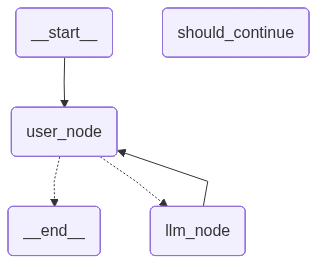
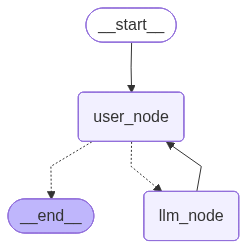
working

diff --git a/src/agent.py b/src/agent.py
@@ -6,6 +6,8 @@ from langchain.messages import AIMessage, AnyMessage, HumanMessage
 from langchain_ollama import ChatOllama
 from langgraph.graph import END, START, StateGraph, add_messages
 from langgraph.checkpoint.sqlite import SqliteSaver
+import argparse
+# Internal dependencies
 import rag
 
 
@@ -13,21 +15,38 @@ import rag
 LLM_MODEL="llama3.2:1b"
 BASE_URL="http://127.0.0.1:11434"
 
-retriever = rag.load_retriever(False)
+reindex=False
 
+parser = argparse.ArgumentParser(description="""
+A simple local RAG project built with Ollama, LangChain, and ChromaDB.  
+It lets you ask questions about a PDF using a fully local LLM setup, with embeddings stored on disk so you don’t have to re-index every time.
+""")
+parser.set_defaults(func=lambda x: parser.print_usage())
+parser.add_argument("-r", "--reindex", action='store_true', help="force reindex of the vectorstore")
+parser.add_argument("-d", "--debug", action='store_true', help="execute in debug mode")
+args = parser.parse_args()
+if not vars(args):
+    parser.print_help()
+    parser.exit(1)
+
+debug=args.debug
+retriever = rag.load_retriever(args.reindex)
 llm = ChatOllama(model=LLM_MODEL, base_url=BASE_URL)
 
-
 class ChatState(TypedDict):
+    """LangGraph state object for Chat workflow"""
     messages: Annotated[list[AnyMessage],add_messages]
+    debug: bool
 
 def llm_node(state:ChatState):
+    """LLM node for the RAG agent workflow. Fetch docs from RAG and uses LLM to generate the response for the user."""
     question = state["messages"][-1].content
     docs = retriever.invoke(question)
     context = "\n\n".join([d.page_content for d in docs])
-    print("\n\n###")
-    print(f"context: {context}")
-    print("###\n\n")
+    if state["debug"]:
+        print("\n\n###")
+        print(f"context: {context}")
+        print("###\n\n")
 
     prompt = f"""
 Answer the question using only the context below.
@@ -40,33 +59,44 @@ Question:
 {question}
 """
     response = llm.invoke(prompt).content
-    print(f"Answer: {response}")
+    print(f"Agent: {response}")
     return {"messages": AIMessage(content=response)}
 
 def should_continue(state:ChatState)->Literal["llm_node","__end__"]:
     if state["messages"][-1] and state["messages"][-1].content.lower() in ["exit", "bye", "quit", "stop"]:
+        print("Agent: Bye!")
         return END
     return "llm_node"
 
 def user_node(state:ChatState):
-    user_message=input("Question: ")
+    user_message=input("You: ")
     return {"messages": HumanMessage(content=user_message.strip())}
 
-graph_builder = StateGraph(ChatState)
 
-graph_builder.add_node(user_node)
-graph_builder.add_node(should_continue)
-graph_builder.add_node(llm_node)
 
-graph_builder.add_edge(START,"user_node")
-graph_builder.add_conditional_edges("user_node", should_continue, {"llm_node", END})
-graph_builder.add_edge("llm_node","user_node")
+def main():
+    graph_builder = StateGraph(ChatState)
 
-# ims = InMemorySaver()
-conn = sqlite3.connect("checkpoints.sqlite")
-checkpoint = SqliteSaver(conn)
-graph = graph_builder.compile(checkpointer=checkpoint)
-with open("agent.png", "wb") as f:
-    f.write(graph.get_graph().draw_mermaid_png())
+    graph_builder.add_node(user_node)
+    graph_builder.add_node(llm_node)
 
-graph.invoke({"messages":""},config={"configurable":{"thread_id":"thread-1"}})
+    graph_builder.add_edge(START,"user_node")
+    graph_builder.add_conditional_edges("user_node", should_continue, 
+            {
+                "llm_node": "llm_node",
+                "__end__": END,
+            }
+        )
+    graph_builder.add_edge("llm_node","user_node")
+
+    conn = sqlite3.connect("checkpoints.sqlite", check_same_thread=False)
+    checkpoint = SqliteSaver(conn)
+    graph = graph_builder.compile(checkpointer=checkpoint)
+    with open("agent.png", "wb") as f:
+        f.write(graph.get_graph().draw_mermaid_png())
+
+    graph.invoke({"messages":"", "debug": debug},config={"configurable":{"thread_id":"thread-1"}})
+
+
+if __name__=="__main__":
+    main()

diff --git a/src/rag.py b/src/rag.py
@@ -5,20 +5,20 @@ from langchain_chroma import Chroma
 from langchain_community.document_loaders import PyPDFLoader
 
 
-# Flag that controls reindexing
-REINDEX=False
 
 ## Embedding
 PDF_PATH = "data/data.pdf"
 CHROMA_DIR = "./chroma_db"
 COLLECTION_NAME = "rag_agent"
-EMBED_MODEL="mxbai-embed-large"
+# EMBED_MODEL="mxbai-embed-large"
+EMBED_MODEL="nomic-embed-text"
 BASE_URL="http://127.0.0.1:11434"
 
 
 vectorstore = None
 
 def init_vectorstore():
+    """Initializes the vectorstore."""
     global vectorstore
     if vectorstore == None:
         embeddings = OllamaEmbeddings(
@@ -33,13 +33,17 @@ def init_vectorstore():
     return vectorstore
 
 def load_retriever(reindex:bool):
+    """Loads the vector store and returns the retriever object
+    Args:
+        reindex (bool): if True, reindexes the vector store.
+    """
     global vectorstore
     if vectorstore == None:
         vectorstore = init_vectorstore()
 
     if reindex:
         print("Reindexing vector store....")
-        loader = PyPDFLoader(PDF_PATH, extract_images=False)
+        loader = PyPDFLoader(PDF_PATH)
         docs = loader.load()
 
         splitter = RecursiveCharacterTextSplitter(
@@ -53,7 +57,7 @@ def load_retriever(reindex:bool):
     else:
         print("Loaded existing Chroma index from disk.")
 
-    retriever = vectorstore.as_retriever(search_kwargs={"k": 2})
+    retriever = vectorstore.as_retriever(search_kwargs={"k": 4})
     # retriever = vectorstore.as_retriever(search_type="similarity_score_threshold", search_kwargs={"k": 4, "score_threshold": 0.8})
     return retriever
 